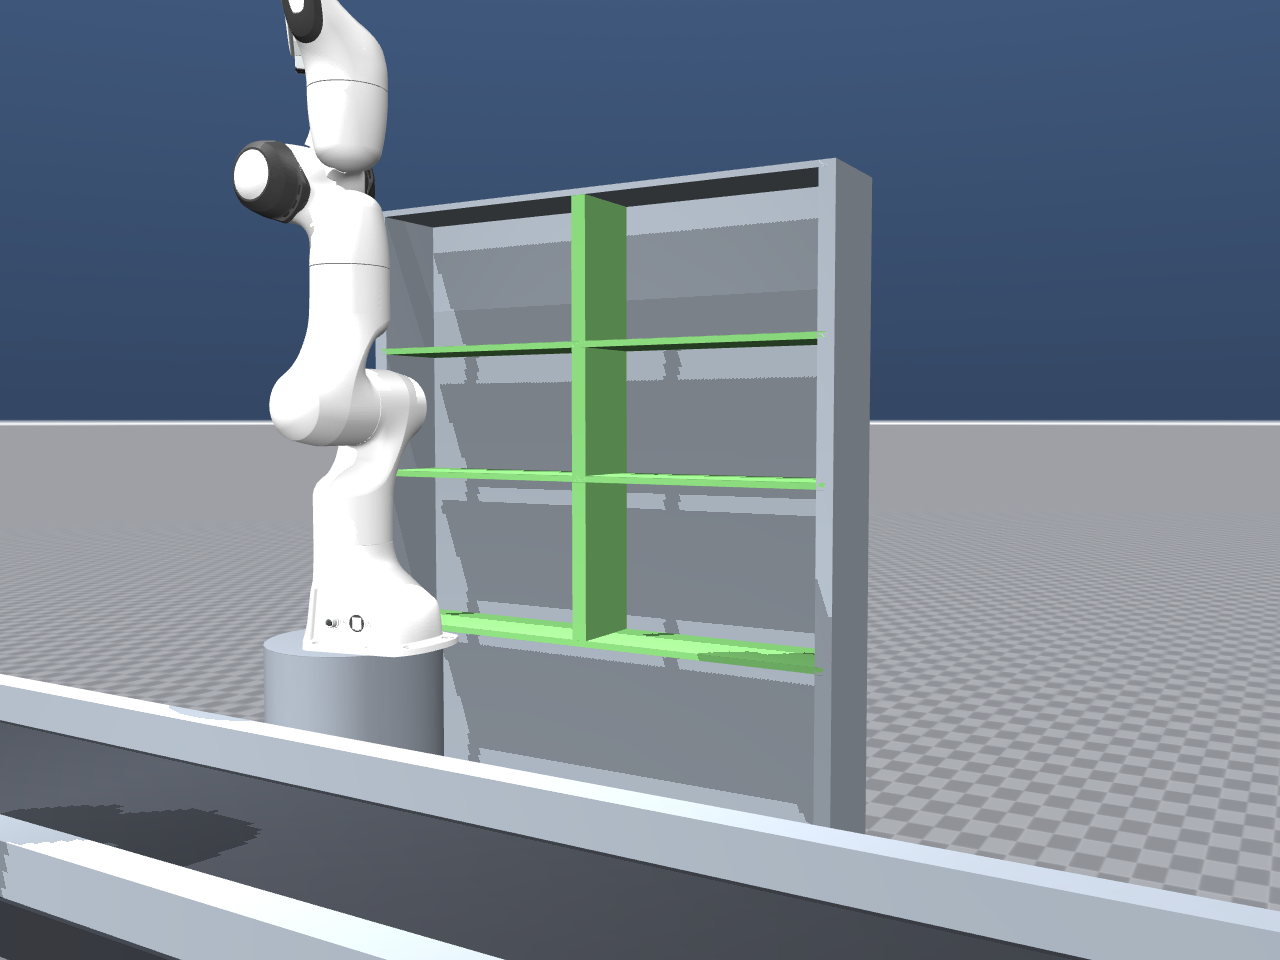
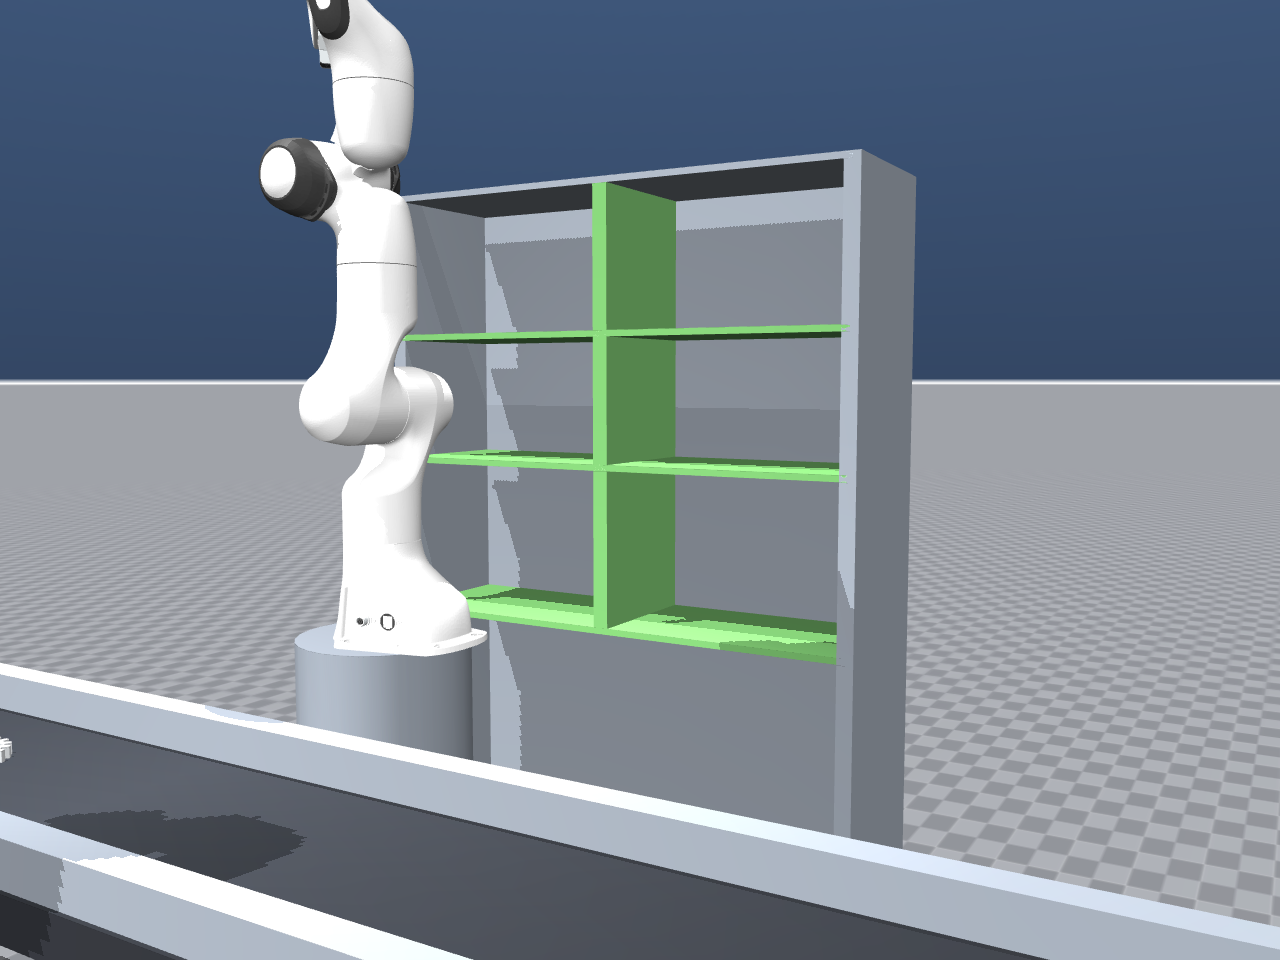
feat: adâncește dulapul brațului 2 în spate la 0,30 m
Fața dinspre braț rămâne la 0,96 m, iar punctele de așezare la 0,94 m, deci
cei 0,12 m adăugați stau în afara anvelopei brațului. Planul, scena, testele
și randările se actualizează; `make mj-demo` rămâne verde pentru toate cele
cinci familii, cu eroarea maximă de 6,8 mm.

diff --git a/docs/diagrams/cell_layout.py b/docs/diagrams/cell_layout.py
@@ -69,13 +69,15 @@ CNC = dict(name="cnc_3axis", kind="cnc", x=3.4, y=2.65, w=1.0, h=0.8)
 # Așezarea nu e liberă, ci iese din măsurătoare. Baza brațului 2 este la (2,70, 1,55), raza de
 # atingere este 0,855 m până la flanșă, iar scula atârnă 0,103 m sub ea. Un dulap adânc, cu
 # rafturile aliniate, nu se poate încărca de sus: antebrațul brațului 2 trece prin volumul lui.
-# De aceea rafturile au doar 0,18 m adâncime, iar piesa stă aproape de fața nordică, deschisă; scula
-# intră pe deasupra marginii din față, înclinată cu 30° față de verticală. Cotele de mai jos sunt
-# măsurate în scenă (`make mj-check`, `make mj-demo`): la 0,18 m adâncime verigile nu ating dulapul,
-# iar la 0,19 m link5 atinge marginea raftului de deasupra.
+# De aceea fața dinspre braț stă la 0,96 m, iar piesa la 2 cm în spatele ei; scula intră pe deasupra
+# marginii din față, înclinată la 45°. Cotele de mai jos sunt măsurate în scenă (`make mj-check`,
+# `make mj-demo`): cu fața la 0,96 m verigile nu ating dulapul; dacă fața se mută spre braț, link5
+# atinge marginea raftului de deasupra.
 #
-# Fața nordică este deschisă, iar rafturile au 0,28 m între ele; partea de jos, spatele și lateralele
-# sunt închise, ca să se citească drept dulap. Podeaua de jos stă la 0,85 m, nivelul benzii 2.
+# Dulapul are 0,30 m adâncime; cei 0,12 m din spate nu intră în calea brațului, fiindcă fața și
+# punctele de așezare au rămas la cotele măsurate. Fața nordică este deschisă, iar rafturile au
+# 0,31 m și 0,25 m între ele; partea de jos, spatele și lateralele sunt închise, ca să se citească
+# drept dulap. Podeaua de jos stă la 0,85 m, nivelul benzii 2.
 RACK_COLUMNS = 2
 RACK_SHELVES = 3
 
@@ -83,12 +85,13 @@ RACK_SHELVES = 3
 #: lasă compartimentul util cu ~0,47 m, destul pentru discul de Ø104 mm.
 RACK_ENTRY_M = 0.5
 
-#: Adâncimea rafturilor, măsurată: peste 0,18 m, verigile brațului ating marginea raftului de
-#: deasupra când scula intră în compartimentul de sub el.
-RACK_DEPTH_M = 0.18
+#: Adâncimea totală a dulapului: 0,30 m, cu fața dinspre braț la 0,96 m. Cei 0,12 m din spate
+#: stau în afara anvelopei brațului; dacă fața se mută spre braț, verigile ating marginea
+#: raftului de deasupra.
+RACK_DEPTH_M = 0.30
 
-#: Cota fiecărei podele de raft: nivelul benzii, apoi două trepte de 0,28 m. A treia este aproape
-#: de limita de atingere, de aceea a rămas la 1,41 m.
+#: Cota fiecărei podele de raft: nivelul benzii, apoi treptele de 0,31 m și 0,25 m. A treia este
+#: aproape de limita de atingere, de aceea a rămas la 1,41 m.
 RACK_FLOORS = (0.85, 1.16, 1.41)
 
 #: Cota feței de sus a dulapului: ultimul raft plus încă o treaptă.
@@ -103,12 +106,12 @@ RACK_PICK_Y = 0.94
 #: amprente din plan; cota podelei se scrie aici ca să se poată citi din desen. Ultimul
 #: compartiment rămâne fără familie.
 RACK_ENTRIES = (
-    dict(index=1, shelf=1, column=1, family="wheel_100", x=2.20, y=0.78, floor=0.85),
-    dict(index=2, shelf=1, column=2, family="flange_72", x=2.70, y=0.78, floor=0.85),
-    dict(index=3, shelf=2, column=1, family="bushing_68", x=2.20, y=0.78, floor=1.16),
-    dict(index=4, shelf=2, column=2, family="wheel_60", x=2.70, y=0.78, floor=1.16),
-    dict(index=5, shelf=3, column=1, family="pinion_56", x=2.20, y=0.78, floor=1.41),
-    dict(index=6, shelf=3, column=2, family=None, x=2.70, y=0.78, floor=1.41),
+    dict(index=1, shelf=1, column=1, family="wheel_100", x=2.20, y=0.66, floor=0.85),
+    dict(index=2, shelf=1, column=2, family="flange_72", x=2.70, y=0.66, floor=0.85),
+    dict(index=3, shelf=2, column=1, family="bushing_68", x=2.20, y=0.66, floor=1.16),
+    dict(index=4, shelf=2, column=2, family="wheel_60", x=2.70, y=0.66, floor=1.16),
+    dict(index=5, shelf=3, column=1, family="pinion_56", x=2.20, y=0.66, floor=1.41),
+    dict(index=6, shelf=3, column=2, family=None, x=2.70, y=0.66, floor=1.41),
 )
 
 #: Gabaritul întregului dulap, pentru tabelul de coordonate: reuniunea compartimentelor,

diff --git a/simulation/mujoco/cncdt_mj/layout.py b/simulation/mujoco/cncdt_mj/layout.py
@@ -68,8 +68,9 @@ RACK_COLUMNS = int(RACK["columns"])
 #: Lățimea nominală a unui compartiment, din plan: 0,5 m, o celulă de grid.
 RACK_ENTRY_M = float(cell_layout.RACK_ENTRY_M)
 
-#: Adâncimea rafturilor, din plan: 0,18 m. Peste ea, verigile brațului ating marginea raftului de
-#: deasupra când scula intră în compartimentul de sub el; cota e măsurată în scenă.
+#: Adâncimea totală a dulapului, din plan: 0,30 m, cu fața dinspre braț la 0,96 m. Cei 0,12 m
+#: din spate stau în afara anvelopei brațului; dacă fața se mută spre braț, verigile ating
+#: marginea raftului de deasupra.
 RACK_DEPTH_M = float(cell_layout.RACK_DEPTH_M)
 
 #: Cota fiecărei podele de raft, de jos în sus, din plan.
@@ -166,8 +167,8 @@ MACHINE_CHUCK_HALF_Z = 0.04
 
 #: Dulapul pe familii: carcasa are laterale și spate, un fund și un capac, iar înăuntru stau trei
 #: rafturi despărțite în două de un panou vertical. Fața nordică rămâne deschisă, fiindcă pe acolo
-#: intră scula; rafturile au doar 0,18 m adâncime, ca antebrațul brațului 2 să rămână în afara
-#: dulapului. Sunt secțiuni de desen, nu cifre din plan ori din documentație.
+#: intră scula; dulapul are 0,30 m adâncime, dar cei 0,12 m din spate stau în afara anvelopei
+#: brațului. Sunt secțiuni de desen, nu cifre din plan ori din documentație.
 RACK_SIDE_HALF_THICKNESS = 0.015
 RACK_SHELF_HALF_Z = 0.006
 RACK_DIVIDER_HALF_THICKNESS = 0.015
@@ -449,8 +450,9 @@ def rack_geometry() -> dict[str, float]:
 
     Așezarea și cotele rafturilor ies din `docs/diagrams/cell_layout.py`, iar podeaua de jos din
     înălțimile documentate. Fața nordică rămâne deschisă; lateralele, spatele, fundul și capacul
-    închid dulapul, iar rafturile se opresc înaintea feței deschise. Adâncimea de 0,18 m este
-    măsurată în scenă: la 0,19 m, verigile brațului ating marginea raftului de deasupra.
+    închid dulapul, iar rafturile se opresc înaintea feței deschise. Dulapul are 0,30 m adâncime,
+    cu fața la 0,96 m: cei 0,12 m din spate stau în afara anvelopei brațului, iar dacă fața se
+    mută spre braț, verigile ating marginea raftului de deasupra.
     """
     cx, cy = center(RACK)
     hx = float(RACK["w"]) / 2

diff --git a/tests/unit/test_mujoco_scene.py b/tests/unit/test_mujoco_scene.py
@@ -213,7 +213,7 @@ def test_dulapul_are_trei_rafturi_cu_doua_compartimente() -> None:
     assert layout.RACK_SHELVES == int(layout.RACK["levels"]) == 3
     assert layout.RACK_COLUMNS == int(layout.RACK["columns"]) == 2
     assert layout.RACK_ENTRY_M == pytest.approx(0.5)
-    assert layout.RACK_DEPTH_M == pytest.approx(0.18)
+    assert layout.RACK_DEPTH_M == pytest.approx(0.30)
     assert len(layout.RACK_ENTRIES) == int(layout.RACK["slots"]) == 6
     assert len(layout.RACK_SLOT_TARGETS) == 5, "al șaselea compartiment rămâne gol"
     assert layout.RACK_ENTRIES[-1]["family"] is None

diff --git a/docs/11-geaman-mujoco.md b/docs/11-geaman-mujoco.md
@@ -130,13 +130,13 @@ ca planul și scena să nu se poată contrazice.
 | Bandă 2 (evacuare, un singur sens) | (2,70, 2,00) | 3,8 × 0,4 | B4–J5 |
 | Braț 2 (Panda #2) | (2,70, 1,55) | bază 0,25 Ø | F4 |
 | Cameră pe brațul 2 (flanșă) | (2,45, 1,72) | punct | E4 |
-| Dulap pe familii (3 rafturi × 2 compartimente) | (2,70, 0,87) | 1,0 × 0,18 | E2–G2 |
-| Raftul 1, compartimentul A (wheel_100) — podea 0,85 m | (2,45, 0,94) | 0,50 × 0,18 | E2–F2 |
-| Raftul 1, compartimentul B (flange_72) — podea 0,85 m | (2,95, 0,94) | 0,50 × 0,18 | F2–G2 |
-| Raftul 2, compartimentul A (bushing_68) — podea 1,16 m | (2,45, 0,94) | 0,50 × 0,18 | E2–F2 |
-| Raftul 2, compartimentul B (wheel_60) — podea 1,16 m | (2,95, 0,94) | 0,50 × 0,18 | F2–G2 |
-| Raftul 3, compartimentul A (pinion_56) — podea 1,41 m | (2,45, 0,94) | 0,50 × 0,18 | E2–F2 |
-| Raftul 3, compartimentul B (gol) — podea 1,41 m | (2,95, 0,94) | 0,50 × 0,18 | F2–G2 |
+| Dulap pe familii (3 rafturi × 2 compartimente) | (2,70, 0,81) | 1,0 × 0,30 | E2–G2 |
+| Raftul 1, compartimentul A (wheel_100) — podea 0,85 m | (2,45, 0,94) | 0,50 × 0,30 | E2–F2 |
+| Raftul 1, compartimentul B (flange_72) — podea 0,85 m | (2,95, 0,94) | 0,50 × 0,30 | F2–G2 |
+| Raftul 2, compartimentul A (bushing_68) — podea 1,16 m | (2,45, 0,94) | 0,50 × 0,30 | E2–F2 |
+| Raftul 2, compartimentul B (wheel_60) — podea 1,16 m | (2,95, 0,94) | 0,50 × 0,30 | F2–G2 |
+| Raftul 3, compartimentul A (pinion_56) — podea 1,41 m | (2,45, 0,94) | 0,50 × 0,30 | E2–F2 |
+| Raftul 3, compartimentul B (gol) — podea 1,41 m | (2,95, 0,94) | 0,50 × 0,30 | F2–G2 |
 | Ladă rebut | (0,45, 2,00) | 0,6 × 0,4 | A4–B5 |
 
 Fiecare țintă de prindere cade în raza de 0,855 m a brațului care o deservește, măsurată în plan:
@@ -165,22 +165,24 @@ din `E2–G2`, cu podelele rafturilor la 0,85 / 1,16 / 1,41 m, iar podeaua de jo
 suprafeței benzii.
 
 Dulapul pe familii are **trei rafturi suprapuse, fiecare despărțit în două compartimente** de un
-panou vertical la mijloc, deci șase compartimente de 0,50 m lățime. Gabaritul lui este 1,00 × 0,18 m,
-cu centrul în (2,70, 0,87) și colțul sud-vest în (2,20, 0,78), deci acoperă celulele `E2–G2`. Fața
+panou vertical la mijloc, deci șase compartimente de 0,50 m lățime. Gabaritul lui este 1,00 × 0,30 m,
+cu centrul în (2,70, 0,81) și colțul sud-vest în (2,20, 0,66), deci acoperă celulele `E2–G2`. Fața
 nordică, spre brațul 2, este deschisă; lateralele, spatele, fundul și capacul formează carcasa.
-Podelele rafturilor stau la 0,85 / 1,16 / 1,41 m, iar fața de sus a dulapului la 1,69 m.
+Podelele rafturilor stau la 0,85 / 1,16 / 1,41 m, iar fața de sus a dulapului la 1,69 m. Fața a
+rămas la 0,96 m, punctele de așezare la 0,94 m, iar cei 0,12 m din spate, peste varianta de 0,18 m,
+stau în afara anvelopei brațului.
 
-Adâncimea de 0,18 m și unghiul de apropiere de 45° față de verticală sunt o pereche măsurată. La
-30°, veriga 5 a brațului 2 trece razant peste marginea raftului 2 când scula coboară spre raftul 1,
+Fața de intrare la 0,96 m și unghiul de apropiere de 45° față de verticală sunt o pereche măsurată.
+La 30°, veriga 5 a brațului 2 trece razant peste marginea raftului 2 când scula coboară spre raftul 1,
 iar contactul oprește brațul la 95 mm de punct; la 45°, scula intră dinspre nord, pe sub margine,
 și toate cele cinci familii ajung în compartimente cu eroarea maximă de 7 mm. Punctul de trecere
 stă în aer liber, la 0,26 m în fața feței deschise, iar punctul de așezare la 2 cm în spatele ei,
 ca piesa să nu stea pe muchie.
 
-De ce un dulap adânc nu merge. Rafturile suprapuse cer ca scula să intre pe fața nordică, înclinat;
-un dulap adânc ar aduce raftul de deasupra peste antebrațul brațului 2, care coboară sub încheietură.
-La 0,18 m adâncime, antebrațul rămâne în afara carcasei, iar compartimentul de 0,50 m ține discul cel
-mai mare, Ø104, cu peste 0,2 m de joc.
+De ce un dulap adânc nu merge cu fața spre braț. Rafturile suprapuse cer ca scula să intre pe fața
+nordică, înclinat; dacă fața se mută spre braț, raftul de deasupra ajunge peste antebrațul brațului
+2, care coboară sub încheietură. Cu fața la 0,96 m, antebrațul rămâne în afara carcasei, iar
+compartimentul de 0,50 m ține discul cel mai mare, Ø104, cu peste 0,2 m de joc.
 
 Fiecare compartiment ține o familie de piese, în ordinea din plan (`docs/diagrams/cell_layout.py`)
 și din generator (`cnc_cell/parts/gear.py`): raftul 1 — `wheel_100`, `flange_72`; raftul 2 —
@@ -211,7 +213,7 @@ partiție de evaluare pe unghiuri nevăzute și nu se poate distinge invarianța
 masa mașinii la 0,75 m, capacul de protecție la 1,90 m, podeaua raftului de jos la 0,85 m,
 adică la nivelul suprafeței benzii 2, podelele celorlalte două rafturi la 1,16 m și 1,41 m, fața
 de sus a dulapului la 1,69 m, iar lățimea unui compartiment este de 0,50 m, cu adâncimea de
-0,18 m. Marginea lăzii de rebut stă la 0,62 m, adică sub nivelul benzii, ca piesa să treacă peste
+0,30 m. Marginea lăzii de rebut stă la 0,62 m, adică sub nivelul benzii, ca piesa să treacă peste
 ea. Baza brațelor pe piedestal la 0,95 m. Culoarele
 libere: 0,60 m între capătul benzii 1 și fața vestică a mașinii, 0,45 m între marginea nordică a
 benzii 2 și fața sudică a mașinii (brațul 1 lucrează pe deasupra benzii, nu prin culoar), 0,25 m
@@ -232,8 +234,8 @@ traiectorie care trece razant pe deasupra.
 Piedestalul brațelor este cota care nu se poate decide din plan, iar scena o măsoară. Cutiile
 adânci de dinainte dădeau sentința „0,55 m nu se poate": pereții lor urcau până la 0,85 m, iar
 antebrațul trecea prin ei (`arm2_link3↔bin_ng`), cu 41 mm eroare rămasă la cutia de piese bune.
-Dulapul nu mai pune pereți în calea antebrațului: e deschis spre braț, iar rafturile au doar
-0,18 m adâncime, deci antebrațul rămâne în afara carcasei. Nu scoate însă piedica de la preluare:
+Dulapul nu mai pune pereți în calea antebrațului: e deschis spre braț, fața stă la 0,96 m, iar
+cei 0,30 m de adâncime se întind în spate, în afara carcasei. Nu scoate însă piedica de la preluare:
 ca să ridice piesa de pe banda 2, brațul 2 trebuie să treacă cu antebrațul peste platformă, iar la
 0,55 m platforma este deasupra lui — măsurat, `arm2_link3↔belt_out` la punctul de deasupra, cu
 106 mm eroare rămasă, iar compartimentele dulapului nu mai pot fi atinse (`arm2_link3↔rack`). La
@@ -725,8 +727,8 @@ atinge contractele publicate.
    detecția nesupervizată.
 4. **Paralelizare pe GPU (MJX sau MuJoCo Warp)** — se decide când timpul de generare devine
    limita reală a antrenării.
-5. **Cota piedestalului brațelor** — închisă la 0,95 m. Dulapul, deschis spre braț și adânc de
-   0,18 m, a scos piedica pe care o puneau pereții cutiilor, dar a rămas banda 2: ca să ridice piesa
+5. **Cota piedestalului brațelor** — închisă la 0,95 m. Dulapul, deschis spre braț, cu fața la
+   0,96 m și adânc de 0,30 m în spate, a scos piedica pe care o puneau pereții cutiilor, dar a rămas banda 2: ca să ridice piesa
    de pe ea, brațul 2 trebuie să treacă cu antebrațul peste platformă, iar la 0,55 m platforma este
    deasupra lui (`arm2_link3↔belt_out`, 106 mm eroare), iar compartimentele dulapului devin de
    neatins. La 0,95 m ciclul se încheie pentru toate cele cinci familii, fără nicio verigă atinsă.

diff --git a/docs/adr/0017-dulap-cu-trei-rafturi-si-doua-compartimente.md b/docs/adr/0017-dulap-cu-trei-rafturi-si-doua-compartimente.md
@@ -23,18 +23,20 @@ Trei constrângeri au fost măsurate în scenă, nu deduse din desen:
 2. **La 30°, veriga 5 atinge marginea raftului 2** când scula coboară spre raftul 1, după ce
    brațul vine din preluarea de pe banda 2. Contactul oprește brațul la **95 mm** de punct, cu
    11,8° de răsucire. Contactul este razant (0,1 mm), dar schimbă ramura cinematicii inverse.
-3. **Adâncimea și unghiul sunt o pereche.** La 0,18 m adâncime și 45°, toate cele cinci ținte se
-   ating cu eroare de cel mult **6,8 mm**, fără nicio verigă atinsă. Punctul de trecere trebuie să
-   stea la 5 cm peste punctul de lucru; la 10 cm, compartimentul estic al raftului 2 nu-și atinge
-   orientarea la trecere (46 mm eroare), fiindcă încheietura urcă prea mult.
+3. **Fața de intrare și unghiul sunt o pereche.** Cu fața la 0,96 m (adâncimea de atunci 0,18 m)
+   și 45°, toate cele cinci ținte se ating cu eroare de cel mult **6,8 mm**, fără nicio verigă
+   atinsă. Punctul de trecere trebuie să stea la 5 cm peste punctul de lucru; la 10 cm,
+   compartimentul estic al raftului 2 nu-și atinge orientarea la trecere (46 mm eroare), fiindcă
+   încheietura urcă prea mult.
 
 ## Decizie
 
 1. **Dulapul are trei rafturi suprapuse, fiecare cu două compartimente**, despărțite de un panou
-   vertical la mijloc. Gabaritul exterior este 1,00 × 0,18 m, cu colțul sud-vest în (2,20, 0,78),
+   vertical la mijloc. Gabaritul exterior este 1,00 × 0,30 m, cu colțul sud-vest în (2,20, 0,66),
    iar podelele rafturilor la 0,85 / 1,16 / 1,41 m. Fața de sus este la 1,69 m, iar fața nordică,
-   spre brațul 2, rămâne deschisă. Lateralele, spatele, fundul și capacul formează carcasa.
-2. **Fiecare compartiment are 0,50 × 0,18 m**, iar punctul de așezare stă la 2 cm în spatele feței
+   spre brațul 2, rămâne deschisă la 0,96 m. Lateralele, spatele, fundul și capacul formează
+   carcasa; cei 0,12 m din spate, față de varianta de 0,18 m, stau în afara anvelopei brațului.
+2. **Fiecare compartiment are 0,50 × 0,30 m**, iar punctul de așezare stă la 2 cm în spatele feței
    deschise, la cota podelei plus jumătatea grosimii piesei. Discul cel mai mare (Ø104) are centrul
    pe blat și peste 0,2 m de joc lateral; marginea lui dinspre nord iese 3,2 cm peste față.
 3. **Scula intră înclinat, la 45° față de verticală**, dinspre nord: direcția de apropiere este
@@ -57,14 +59,16 @@ Trei constrângeri au fost măsurate în scenă, nu deduse din desen:
 - Scena scade de la 36 de corpuri și 236 de geome la **31 de corpuri și 206 geome**: cele cinci
   corpuri de intrare, cele 12 picioare, panourile și buzele dispar, iar carcasa, cele trei rafturi
   și despărțitorul intră în corpul `rack`.
-- În plan, cele trei rafturi se suprapun, deci desenul arată un singur dreptunghi de 1,00 × 0,18 m;
+- În plan, cele trei rafturi se suprapun, deci desenul arată un singur dreptunghi de 1,00 × 0,30 m;
   cotele rafturilor stau în legendă și în tabelul de coordonate, nu în desen.
 - Falcile pot atinge blatul când lasă piesa. Atingerea falcilor este raportată, nu tratată ca
   eșec, fiindcă falcile sunt scula; o verigă care atinge dulapul rămâne eșec.
 - Prinderea nu este modelată, deci piesa nu se așază fizic pe raft după eliberare. Ținta este
   centrul piesei, ca la toate celelalte puncte de lucru.
-- Adâncimea de 0,18 m este limita măsurată: un dulap mai adânc readuce veriga 5 peste marginea
-  raftului de deasupra, iar o apropiere de 30° readuce contactul chiar la această adâncime.
+- Fața de intrare la 0,96 m este limita măsurată: dacă fața se mută spre braț, veriga 5 atinge
+  marginea raftului de deasupra, iar o apropiere de 30° aduce contactul chiar la această cotă.
+  Adâncimea totală de 0,30 m se întinde în spate, în afara anvelopei; a fost mărită fără să
+  schimbe fața, țintele sau rezultatul `make mj-demo`.
 - Rafturile nu sunt egal distanțate: 0,31 m între primele două și 0,25 m între ultimele două.
   Ambele intervale lasă piesa și falcile să intre, iar podeaua de jos rămâne la nivelul benzii.
 
@@ -74,7 +78,7 @@ Trei constrângeri au fost măsurate în scenă, nu deduse din desen:
 | --- | --- |
 | Apropiere la 30° cu același dulap | Veriga 5 atinge marginea raftului 2 și brațul se oprește la 95 mm de punct. |
 | Apropiere la 45° cu trecerea la 10 cm peste punct | Compartimentul estic al raftului 2 nu-și atinge orientarea la trecere (46 mm eroare). |
-| Dulap adânc, de 0,24–0,30 m | Antebrațul intră în carcasă; mâna nu mai are loc sub raftul de deasupra. |
+| Dulap cu fața mutată spre braț la 0,24–0,30 m | Antebrațul intră în carcasă; mâna nu mai are loc sub raftul de deasupra. |
 | Rafturi aliniate, cu brațul retras | Scoate brațul 2 din raza benzii 2 ori a lăzii de rebut; baza lui este acolo din măsurători de atingere. |
 | Apropiere verticală, de sus | Mâna ar trece prin raftul de deasupra; anvelopa coboară sub punct. |
 | Al șaselea compartiment cu o familie | Generatorul are cinci familii; un compartiment etichetat suplimentar ar cere o clasă care nu există. |

diff --git a/simulation/mujoco/README.md b/simulation/mujoco/README.md
@@ -455,12 +455,13 @@ fiecare despărțit în două compartimente de un panou vertical, plus o **ladă
 de vest al benzii 2. Motivul nu este estetic: cutiile aveau pereți până la nivelul benzii, iar
 antebrațul brațului 2 trecea prin ei.
 
-Dulapul are 1,00 × 0,18 m, cu podelele la 0,85 / 1,16 / 1,41 m și fața de sus la 1,69 m. Fața
-nordică e deschisă, iar lateralele, spatele, fundul și capacul formează carcasa. Adâncimea mică și
-apropierea înclinată la 45° sunt perechea măsurată: la 30° veriga 5 a brațului atinge marginea
-raftului 2 și scula rămâne la 95 mm de punct; la 45° toate cele cinci familii ajung în
-compartimente, cu eroarea maximă de 6,8 mm. Un dulap mai adânc ar aduce raftul de deasupra peste
-antebraț.
+Dulapul are 1,00 × 0,30 m, cu podelele la 0,85 / 1,16 / 1,41 m și fața de sus la 1,69 m. Fața
+nordică e deschisă, iar lateralele, spatele, fundul și capacul formează carcasa. Cei 0,12 m din
+spate stau în afara anvelopei brațului: fața a rămas la 0,96 m, iar punctele de așezare la 0,94 m.
+Fața de intrare și apropierea înclinată la 45° sunt perechea măsurată: la 30° veriga 5 a brațului
+atinge marginea raftului 2 și scula rămâne la 95 mm de punct; la 45° toate cele cinci familii ajung
+în compartimente, cu eroarea maximă de 6,8 mm. Un dulap cu fața mutată spre braț ar aduce raftul de
+deasupra peste antebraț.
 
 Ordinea compartimentelor este ordinea familiilor din generator — raftul 1: `wheel_100`,
 `flange_72`; raftul 2: `bushing_68`, `wheel_60`; raftul 3: `pinion_56`, apoi un compartiment gol —,
